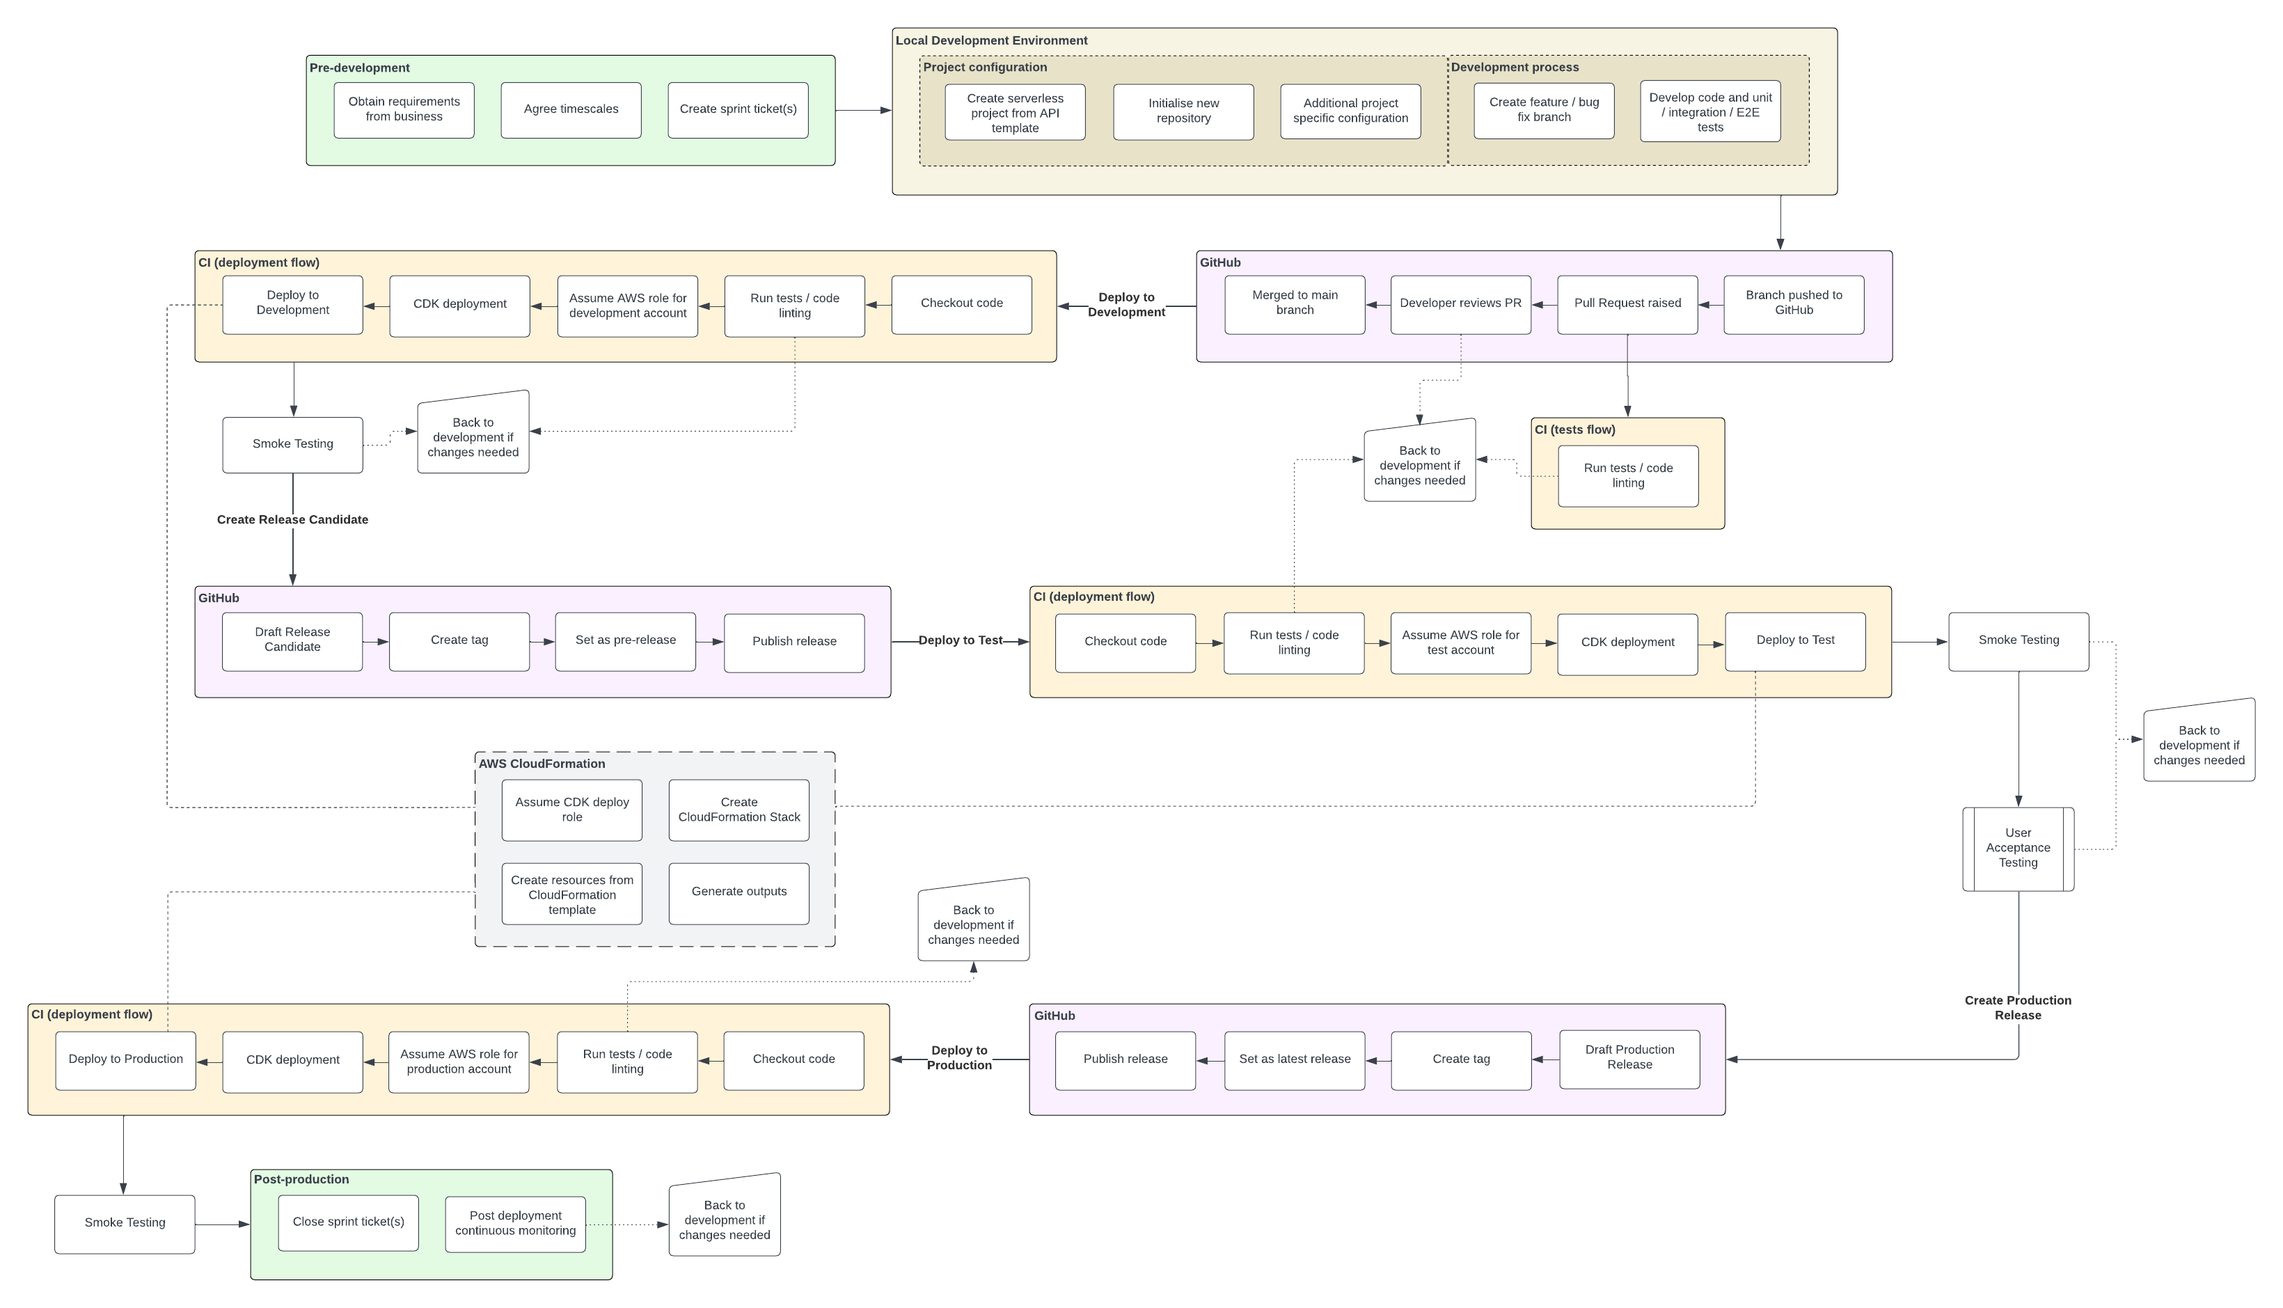
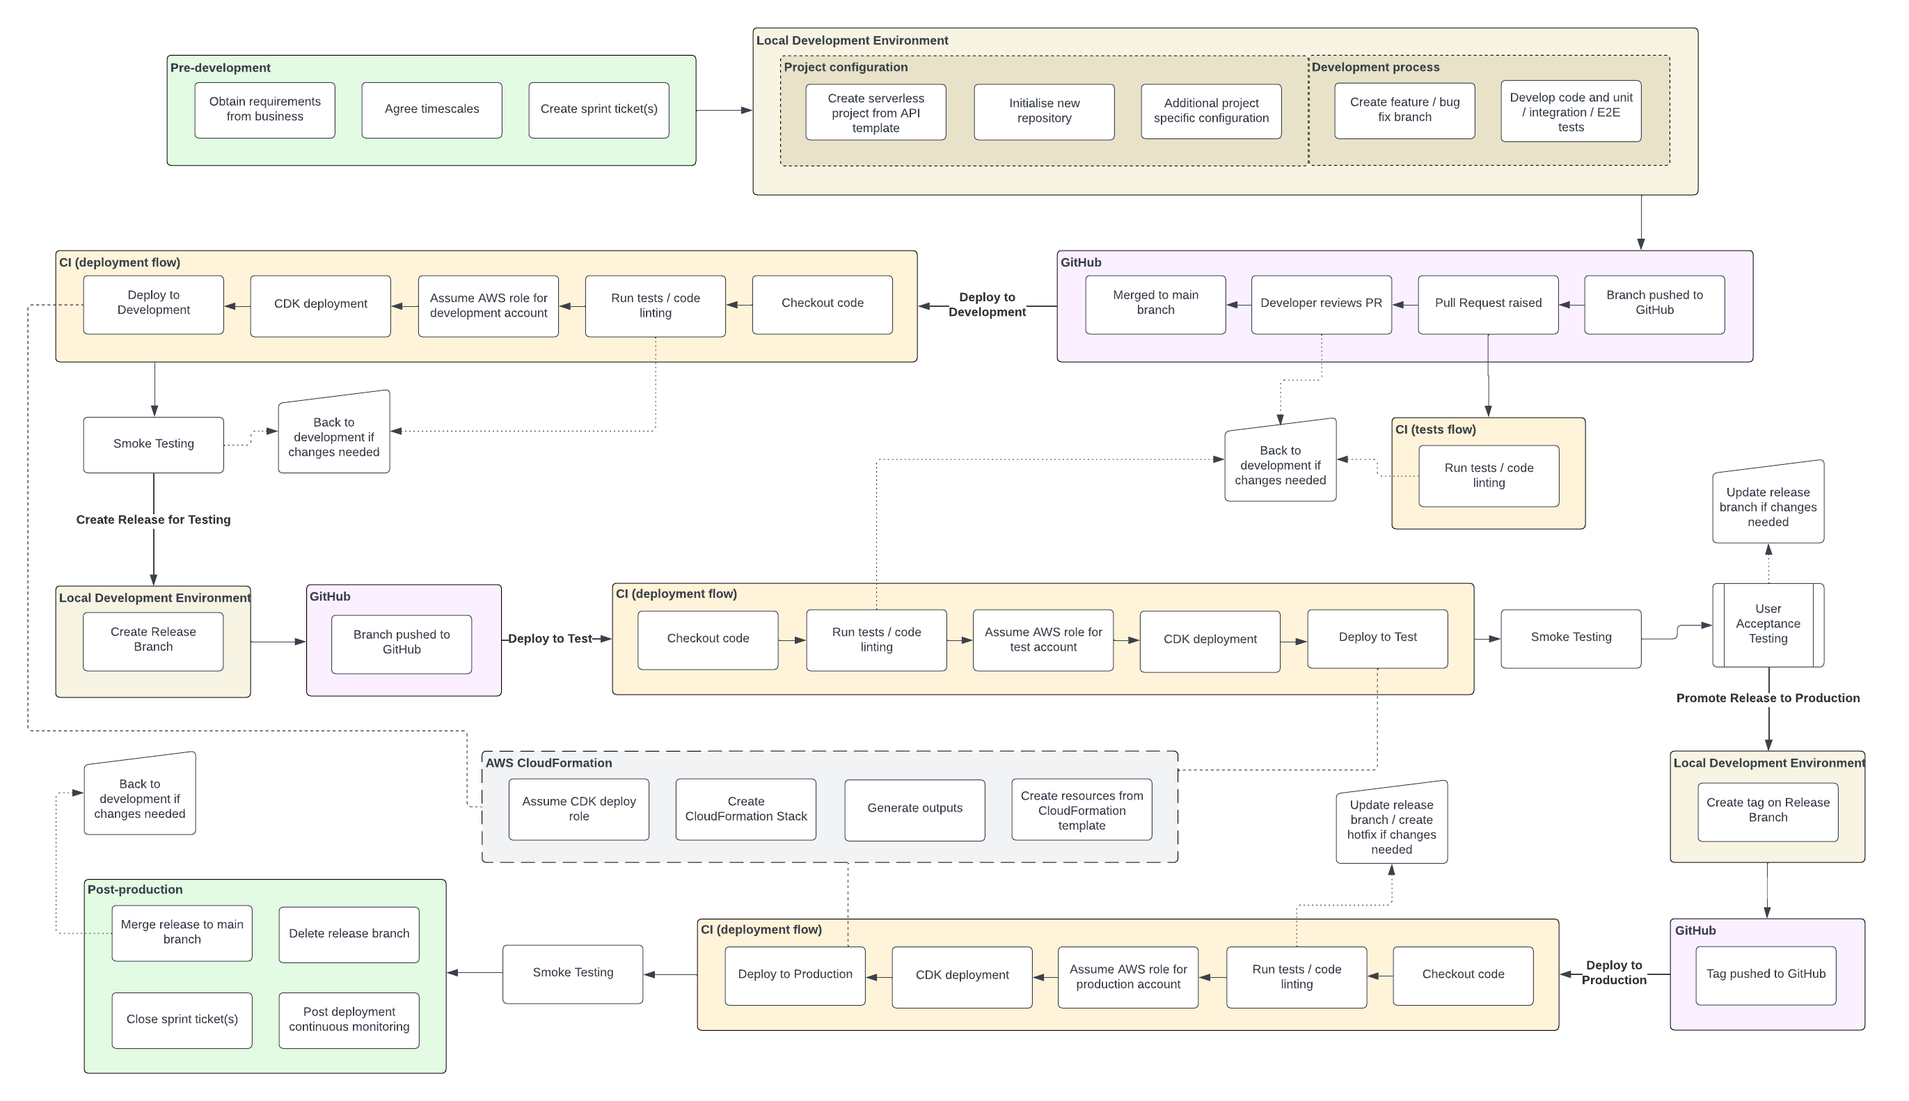
chore: add release branch references to pages

diff --git a/docs/devops-and-automation/deployment-process.md b/docs/devops-and-automation/deployment-process.md
@@ -57,39 +57,39 @@ Deployments to the **development environment** are triggered automatically throu
 
 ### 2. Deployment to Test Environment
 
-Deployments to the **test environment** are triggered manually when a release candidate is ready for testing.
+Deployments to the **test environment** are triggered manually when a release branch is ready for testing.
 
 #### Steps:
 
-1. **Create a Release Candidate**: The development team drafts a release candidate on GitHub and tags it as a pre-release. Further details can be found in the [Release Process](release-process.md) guidance.
-2. **Trigger the Test Deployment**: Once the release candidate is created, a manual deployment to the test environment is triggered via GitHub Actions.
+1. **Create a Release Branch**: The development team creates a release branch from `main`. Further details can be found in the [Release Process](release-process.md) guidance.
+2. **Trigger the Test Deployment**: Once the release branch is created, a deployment to the test environment is triggered via GitHub Actions.
 3. **AWS CDK Deployment**:
    - The pipeline assumes an AWS role for the **test account**.
-   - AWS CDK provisions the infrastructure and deploys the release candidate to the test environment via CloudFormation.
+   - AWS CDK provisions the infrastructure and deploys the release branch to the test environment via CloudFormation.
 4. **Run Tests**:
    - Integration tests and smoke tests are re-run in the test environment.
 5. **User Acceptance Testing (UAT)**:
-   - The **Testing Team** performs UAT based on the test plan to validate the release candidate. They create and execute test plans to ensure the software meets the business requirements.
+   - The **Testing Team** performs UAT based on the test plan to validate the release. They create and execute test plans to ensure the software meets the business requirements.
 6. **Approval or Rollback**:
-   - If the UAT passes, the release candidate is approved for production.
-   - If issues arise, the team addresses the issues in the development environment and re-tests the release.
+   - If the UAT passes, the release is approved for production.
+   - If issues arise, the release branch is updated, and the deployment is re-triggered.
 
 #### Who is involved:
 
-- **Developers**: Responsible for creating the release candidate, deploying it to the test environment, and fixing any issues discovered during testing.
+- **Developers**: Responsible for creating the release, deploying it to the test environment, and fixing any issues discovered during testing.
 - **Testing Team**: Responsible for creating the UAT plan, conducting the UAT, and reporting any issues that need resolution.
-- **Stakeholders**: May participate in reviewing the results of UAT and provide feedback or approval for the release candidate.
+- **Stakeholders**: May participate in reviewing the results of UAT and provide feedback or approval for the release.
 
 ---
 
 ### 3. Deployment to Production Environment
 
-Deployments to the **production environment** are triggered manually after a release candidate has passed all tests and UAT in the test environment.
+Deployments to the **production environment** are triggered manually after the release branch has passed all tests and UAT in the test environment.
 
 #### Steps:
 
-1. **Create a Production Release**: Once UAT is complete, the release candidate is finalized, and a production release is created and tagged in GitHub. Further details can be found in the [Release Process](release-process.md) guidance.
-2. **Trigger the Production Deployment**: The deployment is triggered manually via GitHub Actions.
+1. **Tag the Release**: Once UAT is complete, the release branch is tagged as a production release (e.g., `v1.1.0`). Further details can be found in the [Release Process](release-process.md) guidance.
+2. **Trigger the Production Deployment**: The deployment is triggered via GitHub Actions.
 3. **AWS CDK Deployment**:
    - The pipeline assumes an AWS role for the **production account**.
    - AWS CDK provisions the infrastructure and deploys the release to production via CloudFormation.
@@ -127,7 +127,7 @@ In case of issues during deployment, follow the rollback mechanism described in 
 
 - **Trigger Development Deployments**: Automatically triggered when merging pull requests.
 - **Monitor Development Environment**: Ensure that development deployments are functioning as expected.
-- **Draft Release Candidates**: When code is stable, create release candidates for testing.
+- **Create Release**: When code is stable, create release for testing.
 - **Manage Test and Production Deployments**: Oversee deployments to test and production environments.
 - **Fix Issues**: Resolve any issues that occur during testing, UAT, or production deployment.
 - **Manage Rollbacks**: Handle any necessary rollbacks in the event of a deployment failure.
@@ -135,7 +135,7 @@ In case of issues during deployment, follow the rollback mechanism described in 
 ### Testing Team
 
 - **Create UAT Test Plans**: Develop and execute test plans to ensure the software meets business requirements.
-- **Conduct UAT**: Perform testing during UAT to validate the release candidate in the test environment.
+- **Conduct UAT**: Perform testing during UAT to validate the release in the test environment.
 - **Report Issues**: Provide detailed feedback on any issues found during UAT for the developers to resolve.
 
 ### Stakeholders

diff --git a/docs/devops-and-automation/cicd-pipeline-and-automation.md b/docs/devops-and-automation/cicd-pipeline-and-automation.md
@@ -7,7 +7,7 @@ Our **CI/CD pipeline** automates the integration, testing, and deployment of cod
 The main stages in our CI/CD pipeline include:
 
 1. **Continuous Integration (CI)**: Automated testing and validation of code in a development environment.
-2. **Release Management**: Creation of release candidates and promotion to the test environment for further testing.
+2. **Release Management**: Creation of release branches and promotion to the test environment for further testing.
 3. **Continuous Deployment (CD)**: Automatic deployment of code to production with post-deployment validation and monitoring.
 
 ---
@@ -39,30 +39,30 @@ If any step fails, the pipeline notifies the developer, who can make the necessa
 
 ### 2. Release Management
 
-Once the code is stable and passes all CI checks, a **release candidate** is created for further testing and deployment to the **test environment**.
+Once the code is stable and passes all CI checks, a **release branch** is created to isolate code changes and prepare the release for further testing and deployment to the **test environment**.
 
 #### Steps in Release Management:
 
-- **Draft a Release Candidate**: A release candidate is drafted in GitHub with a version tag and marked as a pre-release.
+- **Create a Release Branch**: A new release branch (e.g., `release/v1.1.0`) is created from `main` to isolate the release.
 - **Deploy to Test**:
-  - The release candidate is deployed to the **test environment** for further testing and user acceptance.
+  - The release branch is deployed to the **test environment** for further testing and user acceptance.
   - **AWS CDK Deployment to Test**: Similar to the development environment, the CDK assumes an AWS role for the **test account** and deploys the application.
   - **Run Tests**: Integration and smoke tests are re-run in the test environment to validate the release.
-- **User Acceptance Testing (UAT)**: Stakeholders perform manual and automated UAT to validate the release candidate.
+- **User Acceptance Testing (UAT)**: Stakeholders perform manual and automated UAT to validate the release.
 
-If issues are found during UAT, the changes are pushed back to the development phase for further iterations.
+If issues are found during UAT, fixes are made directly in the release branch and redeployed to the **test environment**.
 
 ---
 
 ### 3. Continuous Deployment (CD)
 
-After a release candidate passes UAT in the test environment, it is promoted to a **production release** and deployed to the **production environment**.
+After the release branch passes UAT in the test environment, it is tagged and deployed to the **production environment**.
 
 #### Steps in the CD Stage:
 
-- **Create a Production Release**: Once approved, a production release is created and tagged in GitHub.
+- **Tag the Release**: Once approved, a production release tag (e.g., `v1.1.0`) is created from the release branch.
 - **Deploy to Production**:
-  - The release is deployed to the **production environment** using **AWS CDK**.
+  - The tagged release is deployed to the **production environment** using **AWS CDK**.
   - The pipeline assumes an AWS role for the **production account** and deploys the necessary infrastructure via **CloudFormation**.
 - **Post-Deployment Smoke Testing**: After deployment, smoke tests are automatically run to ensure the key functionalities are working in production.
 - **Post-Deployment Monitoring**: Continuous monitoring is activated to detect any performance or functionality issues.
@@ -85,7 +85,7 @@ After a release candidate passes UAT in the test environment, it is promoted to 
 ### 3. Environment-Specific Pipelines
 
 - **Development Environment**: Automate frequent deployments for internal testing and integration in the development environment.
-- **Test Environment**: Deploy release candidates to the test environment for UAT and performance validation.
+- **Test Environment**: Deploy release branches to the test environment for UAT and performance validation.
 - **Production Environment**: Production deployments should follow controlled procedures with automated rollbacks and post-deployment validations.
 
 ### 4. Rollback Mechanism

diff --git a/docs/general-development-practices/software-development-lifecycle.md b/docs/general-development-practices/software-development-lifecycle.md
@@ -55,27 +55,26 @@ This stage ensures that all code changes are continuously integrated into the sy
 
 ---
 
-### 4. Create a Release Candidate
+### 4. Create a Release
 
-After the development environment passes all tests, a release candidate is created and prepared for deployment to the **test environment**.
+After the development environment passes all tests, a release branch is created and prepared for deployment to the **test environment**.
 
 - **Key Activities**:
-  - Draft a release candidate on GitHub.
-  - Tag the release and set it as a pre-release for further testing.
-  - Publish the release candidate for deployment in the test environment.
+  - Create a release branch.
+  - Name the branch using **semantic versioning** (e.g., `release/v1.0.0`).
 
-The release candidate serves as a version of the application that is ready for testing, ensuring that it meets the necessary quality and functional requirements.
+The release serves as a version of the application that is ready for testing, ensuring that it meets the necessary quality and functional requirements.
 
 ---
 
 ### 5. Testing and Deployment to Test Environment
 
-Once a release candidate is ready, it’s deployed to the **test environment** for thorough validation, including **User Acceptance Testing (UAT)**.
+Once a release is ready, it’s deployed to the **test environment** for thorough validation, including **User Acceptance Testing (UAT)**.
 
 - **Key Activities**:
-  - Deploy the release candidate to the test environment using AWS CDK and CloudFormation.
+  - Deploy the release to the test environment using AWS CDK and CloudFormation.
   - Run integration and smoke tests in the test environment to validate the deployment.
-  - **UAT**: The testing team and stakeholders validate the release candidate to ensure it meets business requirements.
+  - **UAT**: The testing team and stakeholders validate the release to ensure it meets business requirements.
   - If any issues arise during testing, changes are sent back to development for fixes and re-deployment.
 
 This stage ensures that the application is tested in an environment that closely mirrors production, reducing the risk of issues in production.
@@ -84,10 +83,10 @@ This stage ensures that the application is tested in an environment that closely
 
 ### 6. Deployment to Production
 
-Once the release candidate has passed testing, it is prepared for deployment to the **production environment**.
+Once the release has passed testing, it is prepared for deployment to the **production environment**.
 
 - **Key Activities**:
-  - Create a production release by finalizing the release candidate in GitHub and tagging it for production deployment.
+  - Promote the release to production by tagging it for production deployment.
   - Deploy the application to production using AWS CDK and CloudFormation.
   - Run post-deployment **smoke tests** to ensure the application is functioning correctly in the production environment.
 
@@ -101,6 +100,7 @@ After deployment to production, the application is continuously monitored to ens
 
 - **Key Activities**:
   - Use AWS CloudWatch to monitor application performance, detect any potential issues, and set up alerts for critical errors.
+  - Merge the release branch into `main` so any changes made during UAT are synced.
   - If any issues arise, the development team can roll back to a previous stable version or issue hotfixes.
   - Sprint tickets are closed, and feedback from stakeholders is gathered for future iterations.
 

diff --git a/docs/general-development-practices/branching-strategy.md b/docs/general-development-practices/branching-strategy.md
@@ -2,7 +2,7 @@
 
 ## Overview
 
-Our team follows **GitHub Flow** as our primary branching strategy. GitHub Flow is a simple and flexible workflow that encourages frequent collaboration and continuous integration. Code is developed in branches, tested, and merged into the `main` branch, which triggers a deployment to the **development (dev) environment**.
+Our team follows a modified version of **GitHub Flow** as our primary branching strategy, which integrates **release branches** to manage production readiness and releases more effectively. This strategy encourages frequent collaboration and continuous integration, with **feature branches** for development, **release branches** for preparing production releases, and deployments managed through GitHub and CI/CD pipelines.
 
 ## Key Concepts
 
@@ -29,9 +29,16 @@ Our team follows **GitHub Flow** as our primary branching strategy. GitHub Flow 
    - After a pull request is approved and all tests pass, the feature branch is merged into the `main` branch.
    - Merging to `main` triggers an automatic deployment to the **development environment** for internal testing and iteration.
 
-5. **Release Process**:
-   - The code in `main` becomes **production-ready** only after it has passed testing in the **test environment** and a **release candidate** has been approved.
-   - Once a release candidate is finalized, it is tagged as a **production release** and deployed to the **production environment**.
+5. **Release Branches**:
+
+   - When the code in `main` is considered stable and ready for further testing, a release branch is created.
+   - The release branch isolates the version of the code that is intended for production, allowing ongoing work in `main` without affecting the release.
+   - Example release branch naming convention: `release/v1.1.0`.
+   - The release branch undergoes thorough testing in the **test environment**, including **User Acceptance Testing (UAT)**, before being tagged for production.
+
+6. **Release Process**:
+   - The code in `main` becomes **production-ready** only after it has passed testing in the **test environment** via promotion to a **release branch**.
+   - If the release branch passes all tests, it is tagged as a **production release** and deployed to the **production environment**.
    - For details on the release and deployment process, refer to the [Deployment Process](../devops-and-automation/deployment-process.md) document.
 
 ## Workflow Example
@@ -65,5 +72,5 @@ Our team follows **GitHub Flow** as our primary branching strategy. GitHub Flow 
    - This will trigger an automatic deployment to the **development environment**.
 
 6. **Create a Release**:
-   - Once the code in `main` is stable and ready for production, follow the release process to create a release candidate and deploy it to **test** and eventually **production**.
+   - Once the code in `main` is stable and ready for production, follow the release process to create a release and deploy it to **test** and eventually **production**.
    - For detailed instructions on creating releases, see the [Release Process](../devops-and-automation/release-process.md).

diff --git a/docs/devops-and-automation/release-process.md b/docs/devops-and-automation/release-process.md
@@ -3,28 +3,26 @@
 **Overview**:  
 Our release process ensures that code is properly tested and validated before deployment to production. It includes creating **release candidates**, managing **production releases**, and implementing a **rollback strategy** to maintain application stability.
 
-## 1. Release Candidate (RC)
+## 1. Create Release for Testing
 
 - Created from the `main` branch once all features and fixes are ready for testing.
-- Once a release candidate is created, it will be deployed to the **test environment** as outlined in the [Deployment Process](deployment-process.md).
-- Tagged using **semantic versioning** (e.g., `v1.0.0-rc1`).
+- Once a release branch created, it will be deployed to the **test environment** as outlined in the [Deployment Process](deployment-process.md).
+- Release branch is named using **semantic versioning** (e.g., `release/v1.0.0`).
 
-## 2. Production Release
+## 2. Promote Release to Production
 
-- Once the release candidate passes testing, a production release is created and deployed to the **production environment** as outlined in the [Deployment Process](deployment-process.md).
+- Once the release passes testing, a tag is created on the release branch and deployed to the **production environment** as outlined in the [Deployment Process](deployment-process.md).
 - Tagged using **semantic versioning** as a final version (e.g., `v1.0.0`).
 
 ## 3. Semantic Versioning
 
-We use **semantic versioning** to label all releases:
+We use **semantic versioning** for release branch naming and labelling all releases:
 
 - **MAJOR.MINOR.PATCH** format:
 
   - **MAJOR**: Increases when breaking changes are introduced.
   - **MINOR**: Increases when new features are added.
   - **PATCH**: Increases for backward-compatible bug fixes.
-
-- Release candidates use a suffix (e.g., `v1.0.0-rc1` for the first release candidate of version `1.0.0`).
 
 ## 4. Rollback Strategy
 
